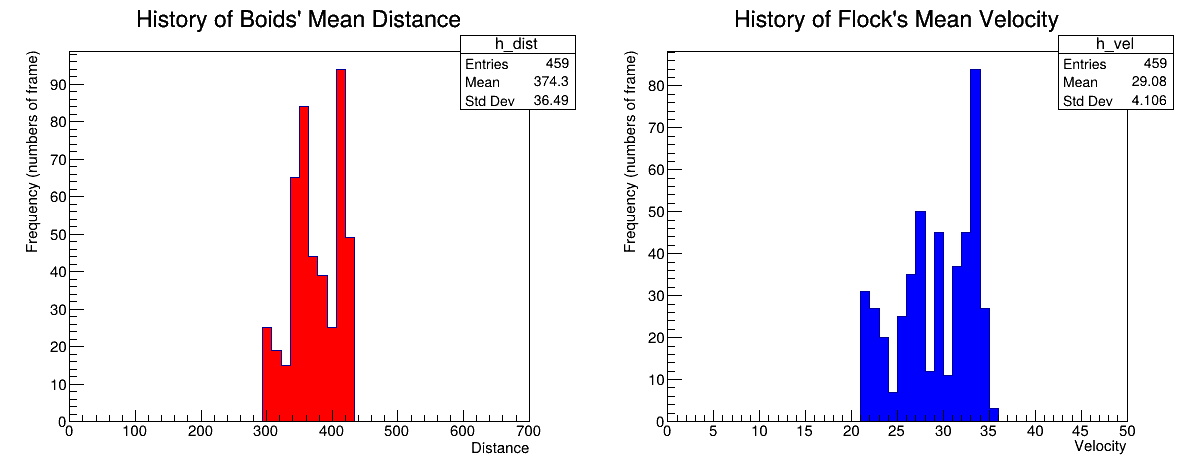
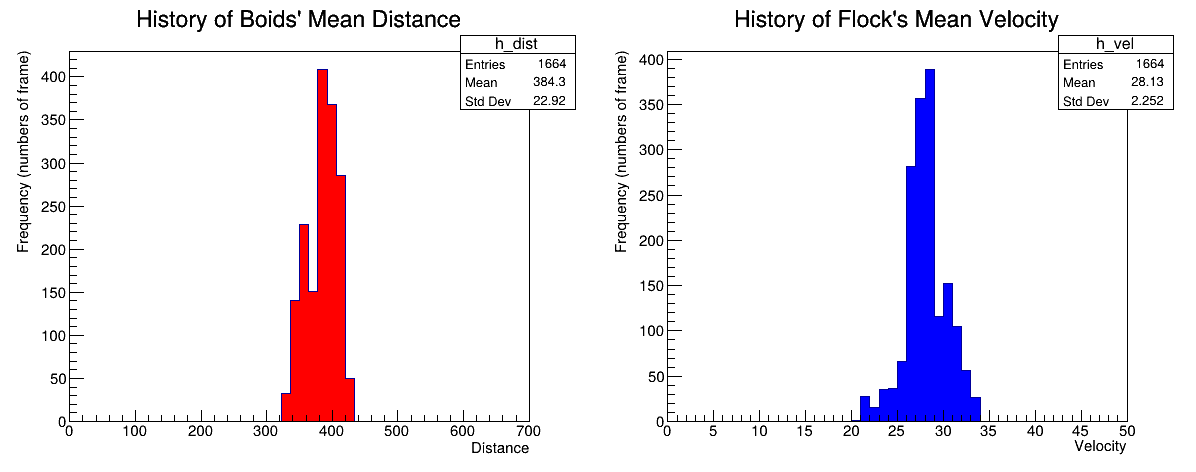
p

diff --git a/flock.cpp b/flock.cpp
@@ -334,7 +334,6 @@ void Flock::movement() {
     predator.vel =
         limit_speed(par_p_.v_min_p, par_p_.v_max_p, predator.vel + v_chase);
 
-    // calcolo nuova posizione predatore
     Position const newp_p = {predator.pos.x + par_b_.dt * predator.vel.v_x,
                              predator.pos.y + par_b_.dt * predator.vel.v_y};
     predator.pos = toroidal_space(newp_p, space_);
